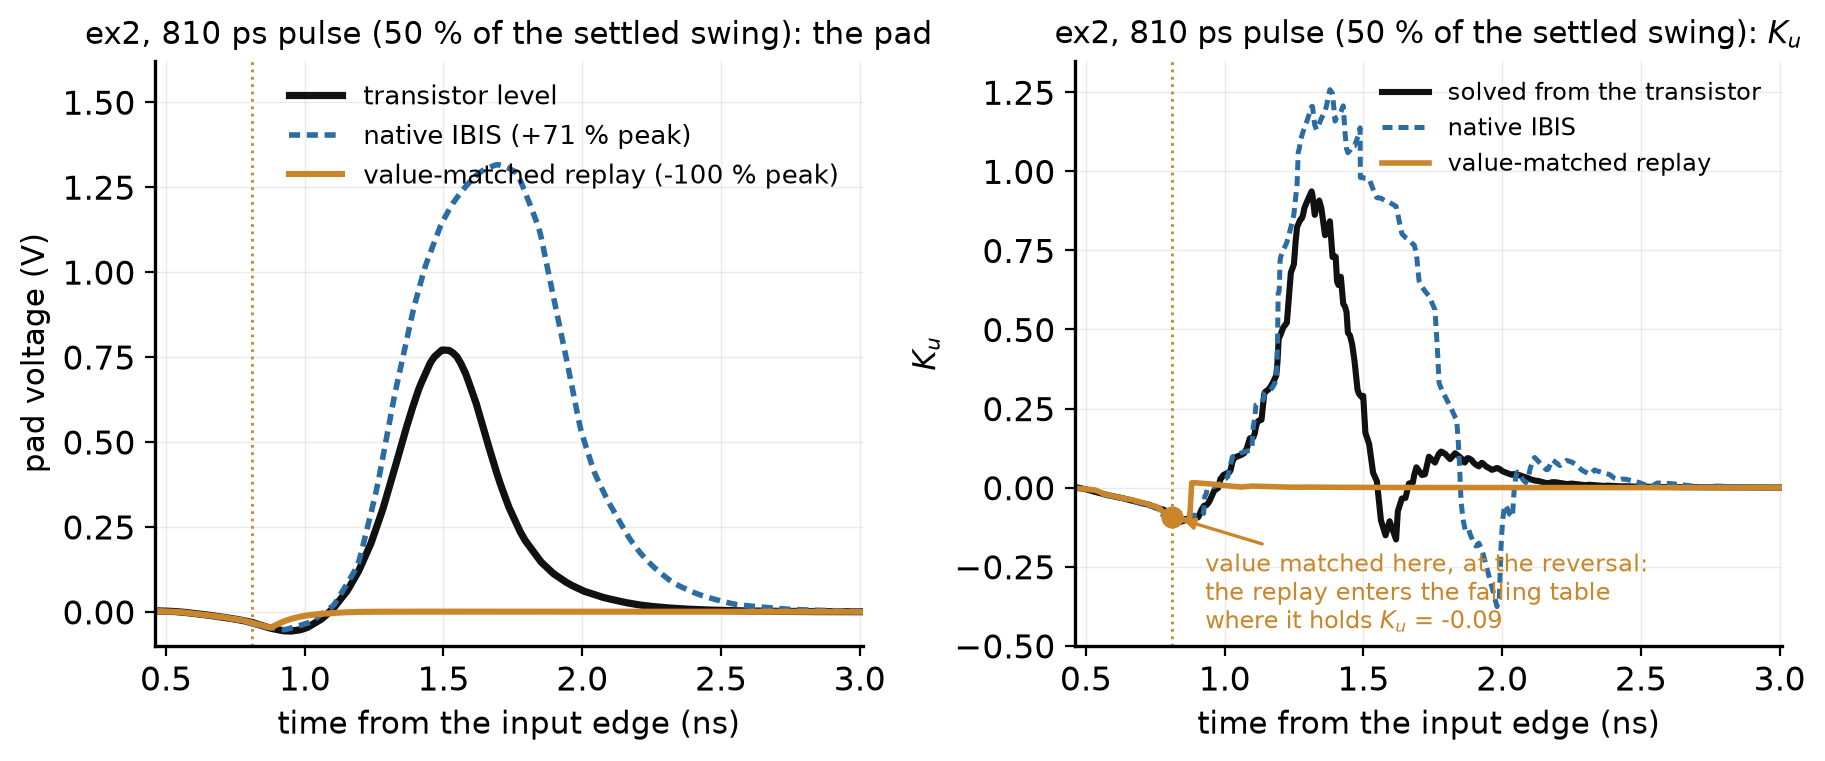
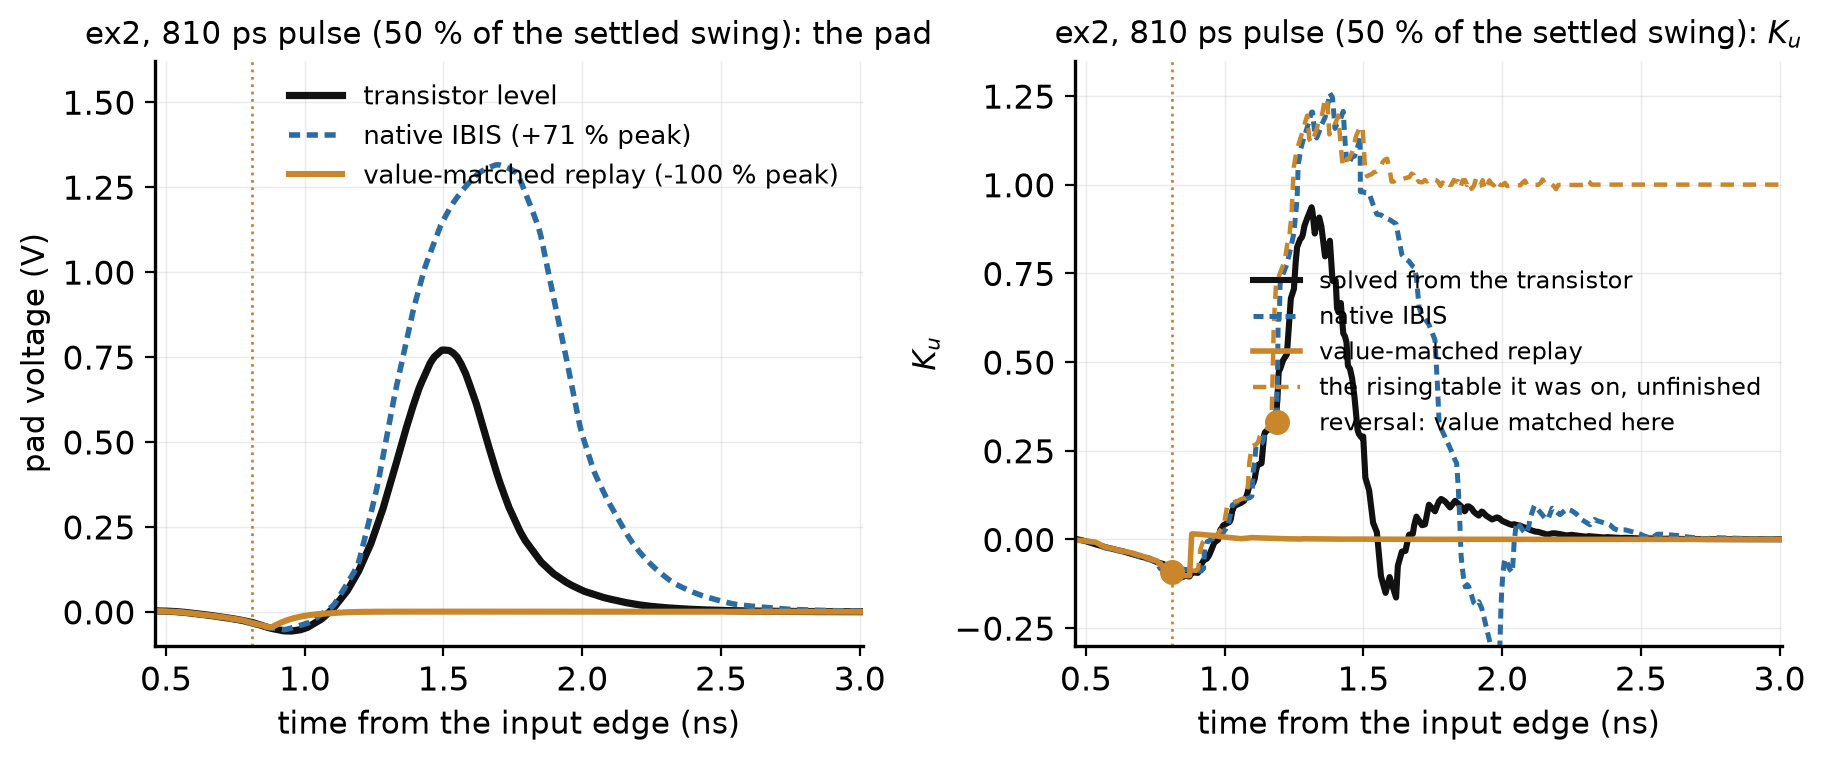
Presentation figures: value match shown by the unfinished rising table and a dot at the reversal

diff --git a/scripts/presentation_2026-10-27_figures.py b/scripts/presentation_2026-10-27_figures.py
@@ -136,13 +136,16 @@ def value_match():
             b.plot(t, ku_mo, color=VALUE, lw=2.0, label="value-matched replay")
             b.axvline(wn, color=VALUE, lw=1, ls=":")
             k_at = float(np.interp(wn, t, ku_mo))
-            b.plot([wn], [k_at], "o", color=VALUE, ms=7)
-            b.annotate(f"value matched here, at the reversal:\nthe replay enters the falling table\nwhere it holds $K_u$ = {k_at:.2f}",
-                       (wn, k_at), (wn + (0.12 if dev == "ex2" else 0.02), -0.47), fontsize=8.5, color=VALUE, va="bottom",
-                       arrowprops=dict(arrowstyle="-|>", color=VALUE, lw=1.2, shrinkB=4))
-            b.set_xlim(a.get_xlim()); b.set_ylim(-0.5, 1.35)
+            device = next(d for d in base.DEVICES if d.device_id == dev)
+            dm = pb.DataModel(pb.get_ibis_model_ecdtools(str(device.fast_ibis)), model_name=device.model, component_name=device.component)
+            kr = pb.solve_k_params_output(dm, 1, "Rising")
+            tr_ = kr[:, 0] * 1e9
+            m = tr_ >= wn
+            b.plot(tr_[m], kr[m, 1], color=VALUE, lw=1.6, ls=(0, (3, 2)), label="the rising table it was on, unfinished")
+            b.plot([wn], [k_at], "o", color=VALUE, ms=8, zorder=6, label="reversal: value matched here")
+            b.set_xlim(a.get_xlim()); b.set_ylim(-0.3, 1.35)
             b.set_title(title(dev, w) + ": $K_u$", fontsize=11); b.set_xlabel("time from the input edge (ns)"); b.set_ylabel("$K_u$")
-            b.legend(frameon=False, loc="upper right", fontsize=8.5); b.grid(alpha=0.25, lw=0.5)
+            b.legend(frameon=False, loc="center right", fontsize=8.5); b.grid(alpha=0.25, lw=0.5)
             save(fig, f"value_match_{dev}.png")
 
 
